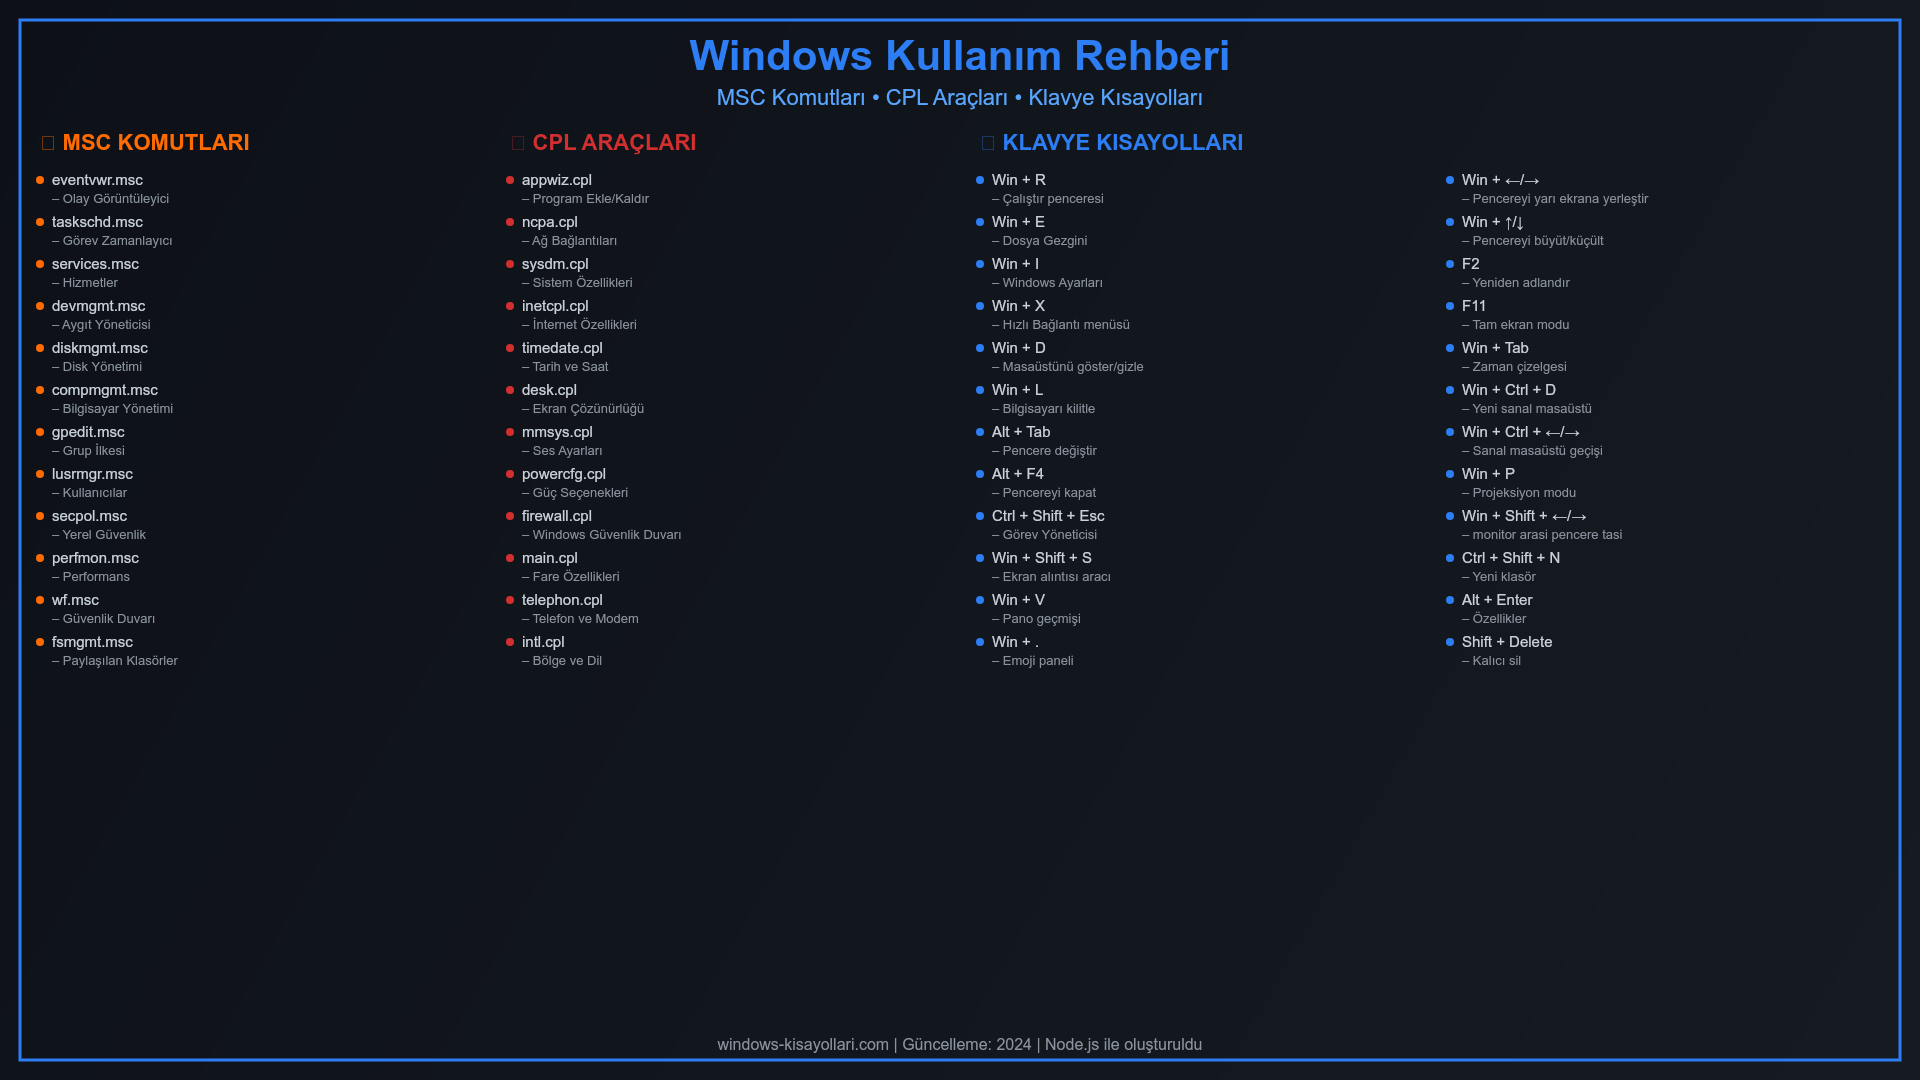
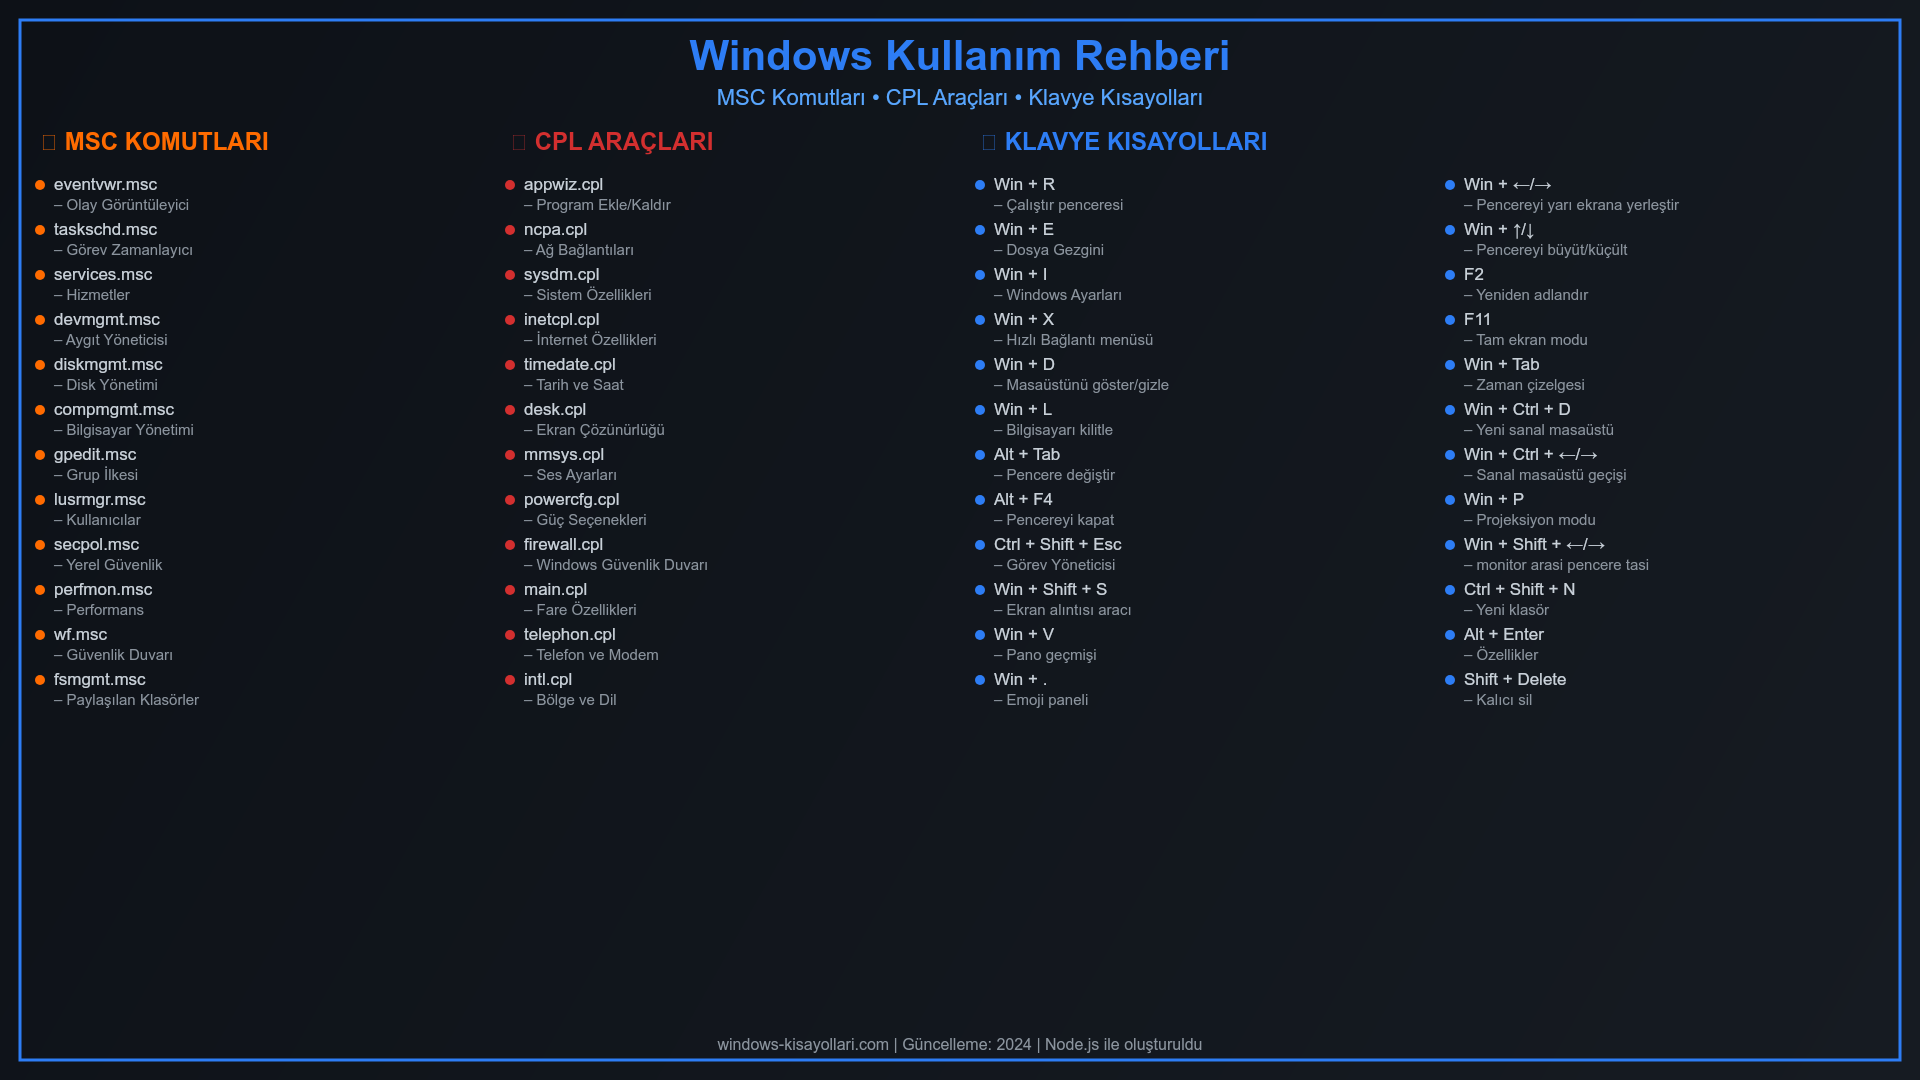
font increased

diff --git a/script.js b/script.js
@@ -233,14 +233,14 @@ async function createWidescreenWallpaper(data) {
     
     // Bölüm başlığı
     ctx.fillStyle = section.color;
-    ctx.font = 'bold 22px Arial';
+    ctx.font = 'bold 24px Arial';
     ctx.textAlign = 'left';
     ctx.fillText(section.title, x, currentY);
     
-    currentY += 35;
+    currentY += 40;
     
     // Maddeler
-    ctx.font = '15px Arial';
+    ctx.font = '17px Arial';
     
     const itemsToShow = maxItems ? section.items.slice(0, maxItems) : section.items;
     
@@ -248,22 +248,22 @@ async function createWidescreenWallpaper(data) {
       // Nokta
       ctx.fillStyle = section.color;
       ctx.beginPath();
-      ctx.arc(x, currentY - 5, 4, 0, Math.PI * 2);
+      ctx.arc(x, currentY - 5, 5, 0, Math.PI * 2);
       ctx.fill();
       
       // Komut
       ctx.fillStyle = meta.colors.text;
       const commandText = item.command;
-      ctx.fillText(commandText, x + 12, currentY);
+      ctx.fillText(commandText, x + 14, currentY);
       
       // Açıklama
       ctx.fillStyle = '#8b949e';
-      ctx.font = '13px Arial';
-      const descText = `– ${item.description}`;
-      ctx.fillText(descText, x + 12, currentY + 18);
       ctx.font = '15px Arial';
+      const descText = `– ${item.description}`;
+      ctx.fillText(descText, x + 14, currentY + 20);
+      ctx.font = '17px Arial';
       
-      currentY += 42;
+      currentY += 45;
     });
     
     return currentY;
@@ -281,46 +281,46 @@ async function createWidescreenWallpaper(data) {
     // Sol yarı - başlıkla birlikte
     let keyboardY = startY;
     ctx.fillStyle = keyboardShortcuts.color;
-    ctx.font = 'bold 22px Arial';
+    ctx.font = 'bold 24px Arial';
     ctx.textAlign = 'left';
     ctx.fillText(keyboardShortcuts.title, col3X, keyboardY);
-    keyboardY += 35;
+    keyboardY += 40;
     
-    ctx.font = '15px Arial';
+    ctx.font = '17px Arial';
     keyboardShortcuts.items.slice(0, halfPoint).forEach((item) => {
       ctx.fillStyle = keyboardShortcuts.color;
       ctx.beginPath();
-      ctx.arc(col3X, keyboardY - 5, 4, 0, Math.PI * 2);
+      ctx.arc(col3X, keyboardY - 5, 5, 0, Math.PI * 2);
       ctx.fill();
       
       ctx.fillStyle = meta.colors.text;
-      ctx.fillText(item.command, col3X + 12, keyboardY);
+      ctx.fillText(item.command, col3X + 14, keyboardY);
       
       ctx.fillStyle = '#8b949e';
-      ctx.font = '13px Arial';
-      ctx.fillText(`– ${item.description}`, col3X + 12, keyboardY + 18);
       ctx.font = '15px Arial';
+      ctx.fillText(`– ${item.description}`, col3X + 14, keyboardY + 20);
+      ctx.font = '17px Arial';
       
-      keyboardY += 42;
+      keyboardY += 45;
     });
     
     // Sağ yarı - başlık olmadan
-    keyboardY = startY + 35;
+    keyboardY = startY + 40;
     keyboardShortcuts.items.slice(halfPoint).forEach((item) => {
       ctx.fillStyle = keyboardShortcuts.color;
       ctx.beginPath();
-      ctx.arc(col4X, keyboardY - 5, 4, 0, Math.PI * 2);
+      ctx.arc(col4X, keyboardY - 5, 5, 0, Math.PI * 2);
       ctx.fill();
       
       ctx.fillStyle = meta.colors.text;
-      ctx.fillText(item.command, col4X + 12, keyboardY);
+      ctx.fillText(item.command, col4X + 14, keyboardY);
       
       ctx.fillStyle = '#8b949e';
-      ctx.font = '13px Arial';
-      ctx.fillText(`– ${item.description}`, col4X + 12, keyboardY + 18);
       ctx.font = '15px Arial';
+      ctx.fillText(`– ${item.description}`, col4X + 14, keyboardY + 20);
+      ctx.font = '17px Arial';
       
-      keyboardY += 42;
+      keyboardY += 45;
     });
   }
   
